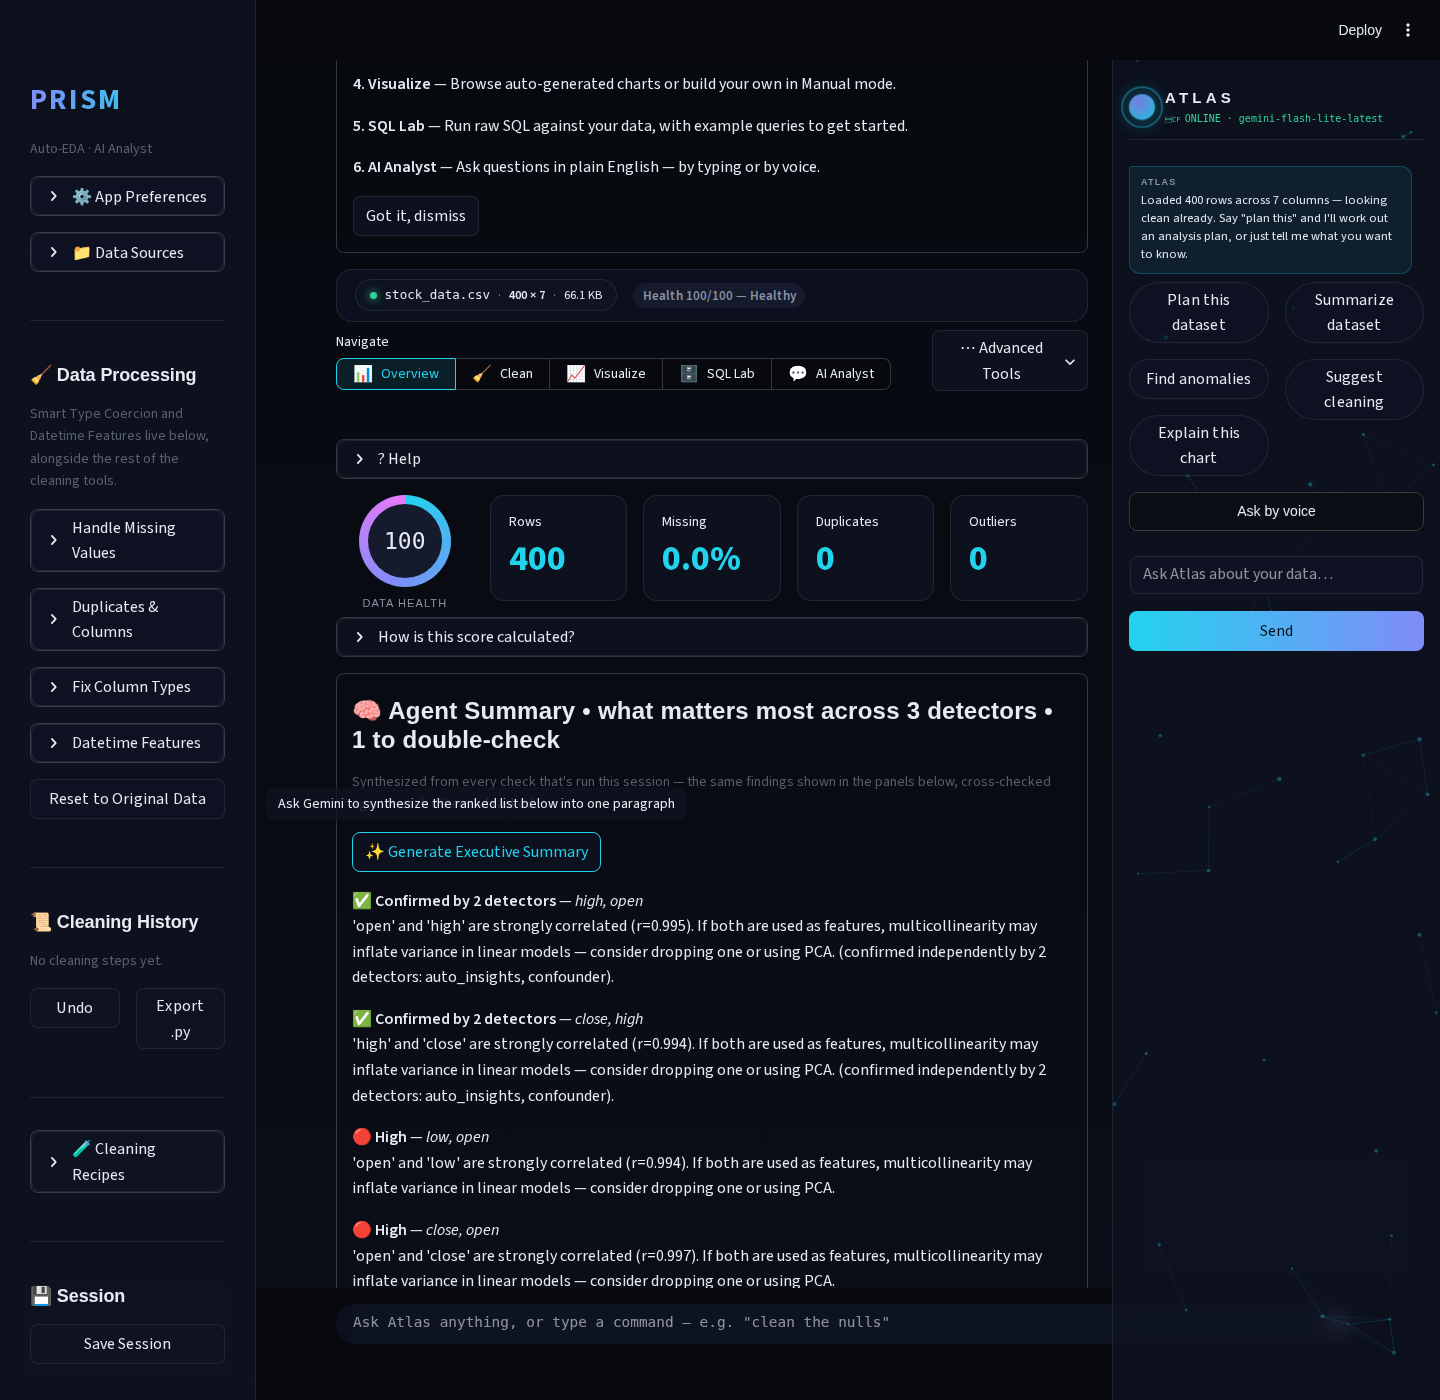
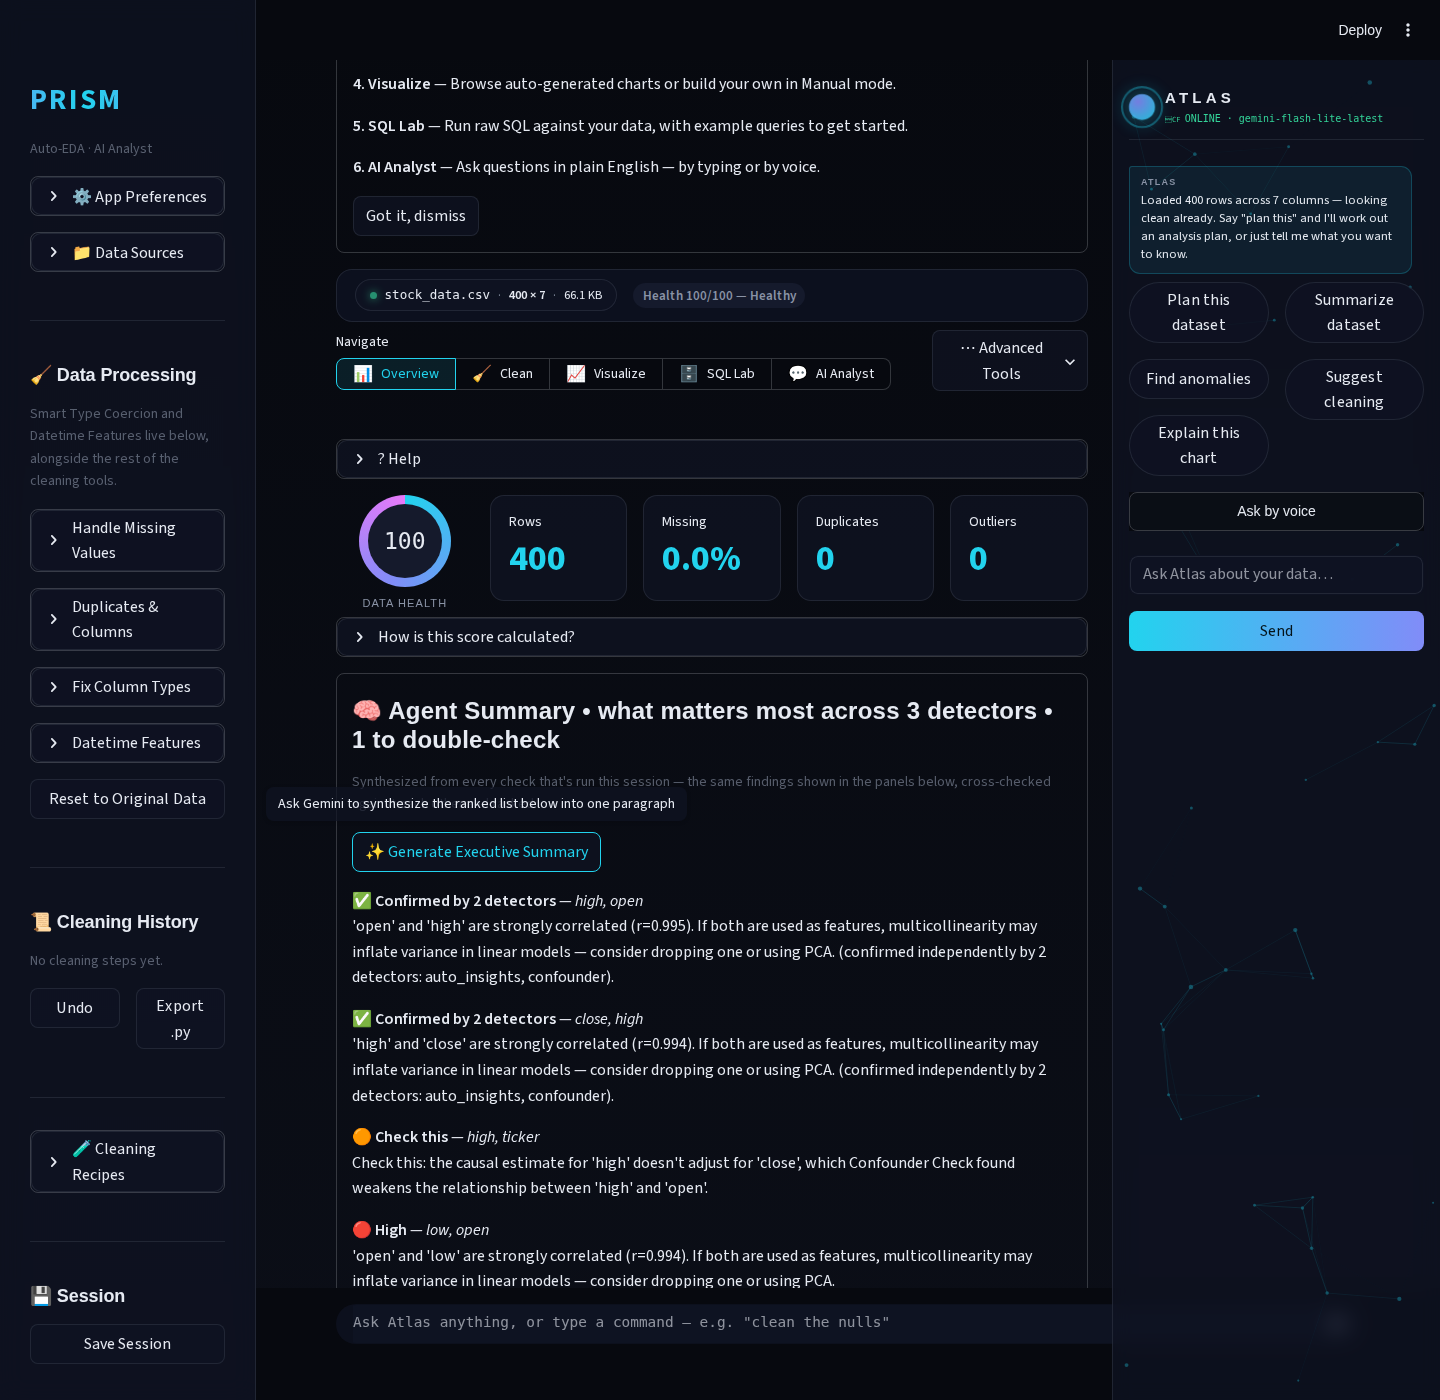
Polish contradiction message wording; regenerate light-theme screenshot correctly
Reworded the contradiction message to avoid an awkward '<outcome>''s
relationship with' construction. Also discovered the desktop-light
screenshot from the previous commit wasn't actually in light mode —
Prism drives its own visual theme via a sidebar selectbox tied to
session state, not the browser's prefers-color-scheme, so the
Playwright script needed to actually operate that control. Regenerated
all screenshots; light theme now renders correctly (Arctic palette,
readable contrast, badges consistent with dark mode).

Claude-Session: https://claude.ai/code/session_01MXKHvzYBVQ2jmWaBJewVyz

Changed region(s): [[0.25, 0.7986, 0.7188, 0.9214], [0.0312, 0.0614, 0.0625, 0.0921]]

diff --git a/modules/insight_orchestrator.py b/modules/insight_orchestrator.py
@@ -367,8 +367,8 @@ def _contradiction_for_causal_claim(causal_claim: Claim, all_claims: list) -> Op
         verb = "reverses" if fc.kind.endswith("paradox") else "weakens"
         return (
             f"Check this: the causal estimate for '{outcome}' doesn't adjust for "
-            f"'{confounder_col}', which Confounder Check found {verb} '{outcome}'’s "
-            f"relationship with '{other}'."
+            f"'{confounder_col}', which Confounder Check found {verb} the relationship "
+            f"between '{outcome}' and '{other}'."
         )
     return None
 
